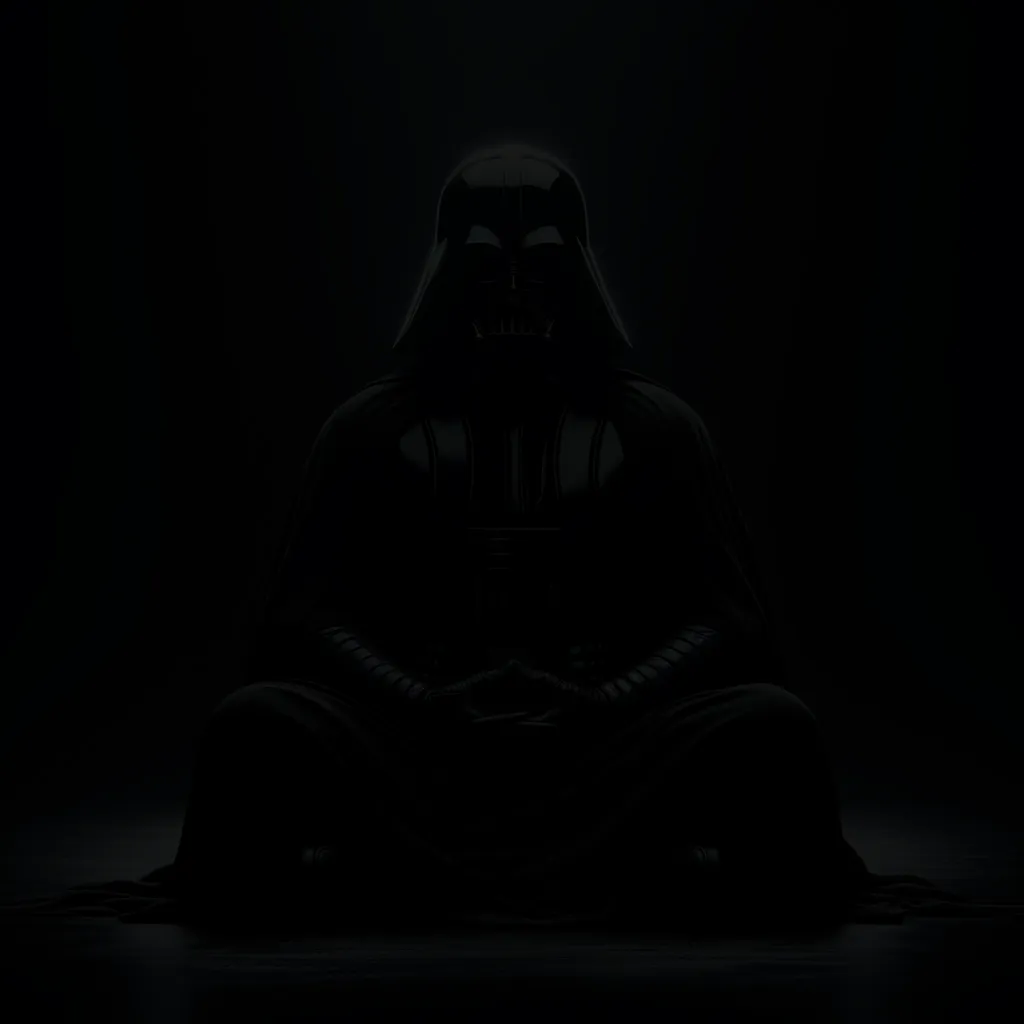
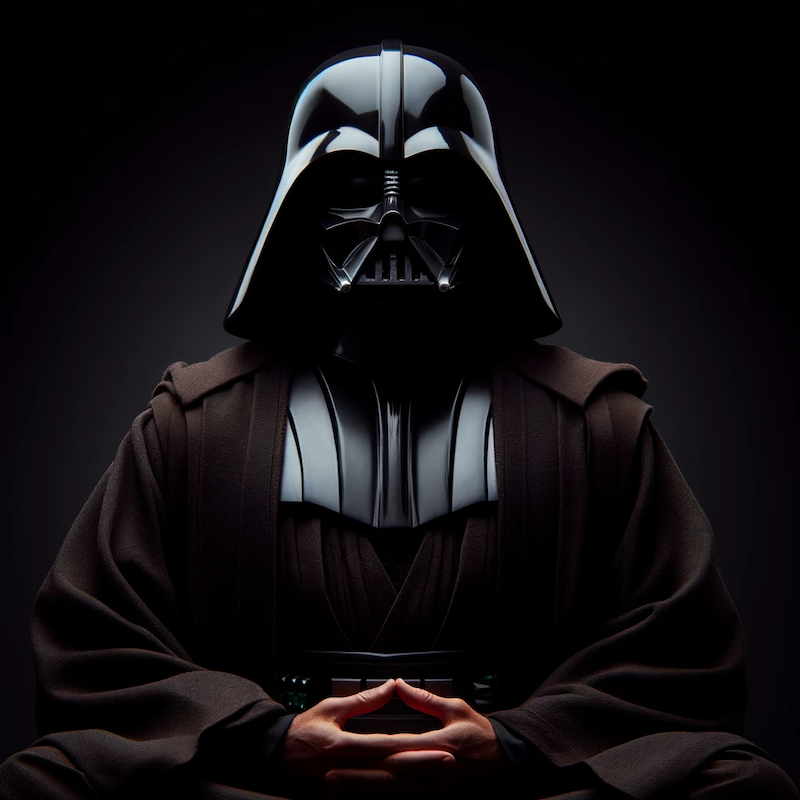
shrink image, swap out bad vader, fade

Changed region(s): [[0.0, 0.0312, 0.9688, 1.0], [0.25, 0.9688, 0.3438, 1.0]]

diff --git a/index.html b/index.html
@@ -1,7 +1,10 @@
 <!DOCTYPE html>
 <html>
 <head>
-    <title>Breathe with Vader</title>
+    <title>Breathe with Vader | Take deep breaths with Darth Vader</title>
+    <meta name="description" content="Breathe deeply to Lord Vader's calming breaths. Achieve max peace.">
+    <meta name="keywords" content="mediation, star wars, darth vader, breathing, calm breathing">
+    <meta name="viewport" content="width=device-width, initial-scale=1.0">    
     <link rel="icon" type="image/x-icon" href="images/favicon.ico">
     <link rel="stylesheet" type="text/css" href="styles.css">
     <link rel="preconnect" href="https://fonts.googleapis.com">
@@ -10,11 +13,11 @@
 </head>
 <body>
   <div id="container">
-    <img id="vaderImg"src="images/vader2.png" width="1400px"/>
+    <img id="vaderImg" src="images/vader1.png" width="1000px" />
   </div>
   <div id="inner">
     <button id="soundButton">breathe with Vader</button>
-    <audio loop id = "sound">
+    <audio loop id ="sound">
       <source src="vader.mp3" type="audio/mpeg">
     </audio>
     <button id="changeVader">I want to breathe with another Vader</button>

diff --git a/script.js b/script.js
@@ -9,14 +9,20 @@ document.getElementById('soundButton').addEventListener('click', function () {
   }
 });
 
-var vaderImages = ['images/vader1.png', 'images/vader2.png', 'images/vader3.png', 'images/vader4.png', 'images/vader5.png']
-var currentImageIndex = 1;
+var vaderImages = [
+  'images/vader1.png', 
+  'images/vader2.png', 
+  'images/vader3.png', 
+  'images/vader4.png',
+  'images/vader5.png'
+]
+var currentImageIndex = 0
 
 document.getElementById('changeVader').addEventListener('click', function () {
   var img = document.getElementById('vaderImg');
   var randomIndex = Math.floor(Math.random() * vaderImages.length);
-  while (randomIndex === currentImageIndex) {
-      randomIndex = Math.floor(Math.random() * vaderImages.length);
+  if (randomIndex === currentImageIndex) {
+    randomIndex = randomIndex;
   }
   currentImageIndex = randomIndex;
   img.src = vaderImages[currentImageIndex];

diff --git a/styles.css b/styles.css
@@ -11,7 +11,7 @@ body {
 }
 
 #container {
-  margin-top: 50px;
+  margin-top: 10px;
 }
 
 #inner {
@@ -27,7 +27,7 @@ body {
   background-color: black;
   border: none;
   color: #e6e6e6;
-  padding: 20px 60px;
+  padding: 10px 0 20px 0;
   text-align: center;
   text-decoration: none;
   font-size: 50px;
@@ -51,4 +51,20 @@ body {
 
 #changeVader:hover, #soundButton:hover {
   text-decoration: underline;
+}
+
+#vaderImg {
+  max-width: 800px;
+  height: auto;
+  opacity: 1;
+  animation: fadeIn 2s ease-in-out;
+}
+
+@keyframes fadeIn {
+  0% {
+    opacity: 0; 
+  }
+  100% {
+    opacity: 1;
+  }
 }

diff --git a/README.md b/README.md
@@ -1,2 +1,6 @@
 # breathe-with-vader
-A meditation app where you breathe to Dark Vader's calming breaths
+Breathe deeply to Lord Vader's calming breaths. Achieve max peace.
+
+https://breathe-with-vader.vercel.app
+
+![](images/preview.png)
